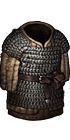
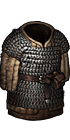
Release 1.3
- Add Green and Purple Padded Mail and Lamellar Hauberk variants (the
  290/-36 Southern armor)
- Add Green and Purple Adarga shield variants
- Add Green and Purple Vizier decorative gear/headgear
- Make Southern factions use the new variants in-game when appropriate
- Add Green/Purple officer worldmap variants
- Slightly tweak plain chain shirt variant inventory icons

diff --git a/README.md b/README.md
@@ -23,9 +23,14 @@ Adds visual variations of some vanilla items. Specifically:
 - **[Coats of Scale](./screenshots/CoatOfScalesItemCard.png)** can now show up with fancy red cloaks. Knights will never spawn with cloaked variants.
 - **[Coats of Plate](./screenshots/CoatOfPlatesItemCard.png)** can now show up with fancy green cloaks. Knights will never spawn with cloaked variants.
 - **[Mail with Lamellar Plating](./screenshots/MailWithLamellarPlatingItemCard.png)** will now show up in Green and Purple variants. Officers & Viziers will spawn with color-appropriate variants for their faction.
+- **[Padded Mail and Lamellar Hauberk](./screenshots/MailWithLamellarPlatingItemCard.png)** will now show up in Green and Purple variants. Officers & Viziers will spawn with color-appropriate variants for their faction.
 
 - **[Padded Dented Nasal Helmets](./screenshots/PaddedDentedNasalHelmetItemCard.png)** are now paintable.
 - **[Full Helms](./screenshots/HoodedFullHelmItemCard.png)** now have (paintable!) hooded variants. Knights will never spawn with hooded variants.
+
+- **[Adarga Shields](./screenshots/AdargaShieldItemCard.png)** will now show up in Green and Purple variants. Conscripts will spawn with color-appropriate variants for their faction (they may still spawn with brown and tan variants regardless of faction).
+
+- Also, Vizier-specific decorative gear will now be Green and Purple (on gear that was normally only Red) when appropriate, and Officers on the world map will have color-appropriate armor for their faction.
 
 ## Requirements
 

diff --git a/screenshots/README.md b/screenshots/README.md
@@ -32,6 +32,10 @@
 
 <img src="./MailWithLamellarPlatingItemCard.png" width="600">
 
+## Padded Mail and Lamellar Hauberk
+
+<img src="./PaddedMailAndLamellarHauberkItemCard.png" width="600">
+
 ## Padded Dented Nasal Helmet
 
 <img src="./PaddedDentedNasalHelmetItemCard.png" width="600">
@@ -39,3 +43,7 @@
 ## Hooded Full Helm
 
 <img src="./HoodedFullHelmItemCard.png" width="600">
+
+## Adarga Shield
+
+<img src="./AdargaShieldItemCard.png" width="600">
